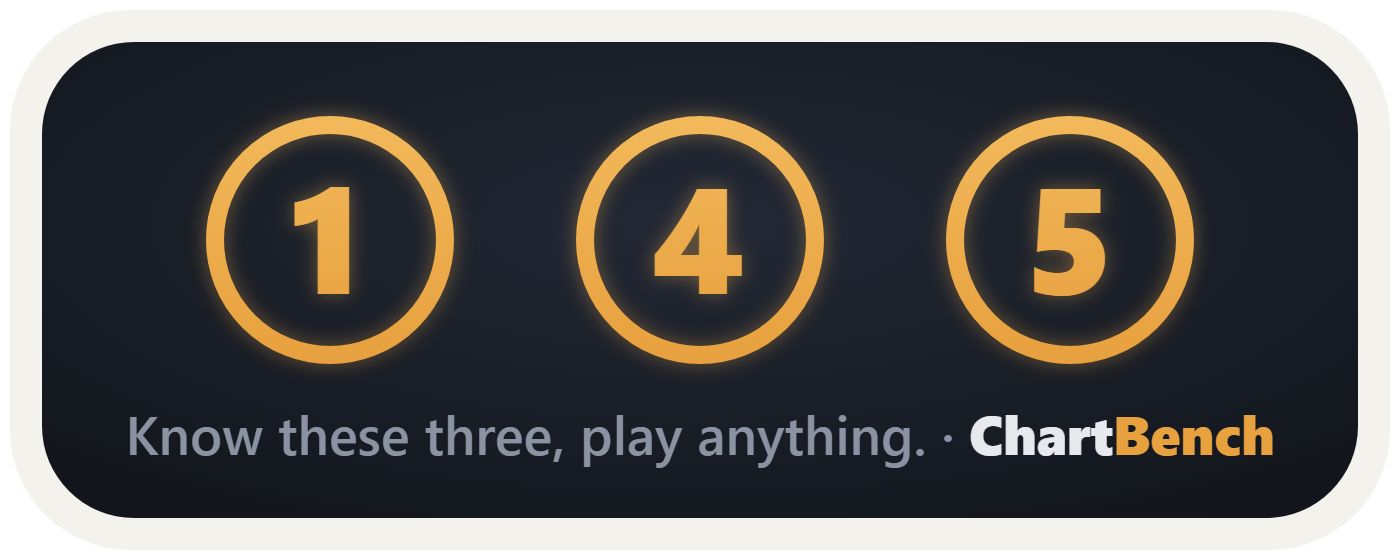
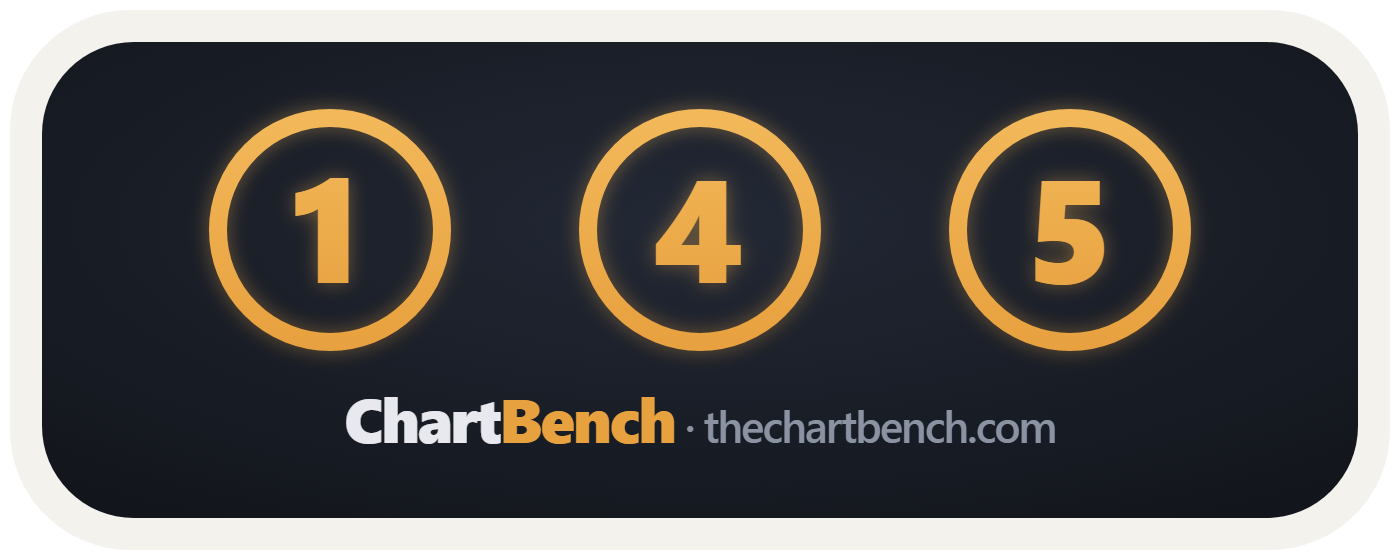
Brand: OneShot goes drums; stickers refocus on CB / ChartBench / thechartbench.com
OneShot badge is now a snare from above - amber rim with eight tension
lugs, the 1 on the head, crossed drumsticks behind, three hit accents
off the rim. Stickers now carry the CB monogram (off-white C, amber B,
scaled from cb-src.html) with the ChartBench wordmark and a
thechartbench.com fine-print line: round crest, guitar pick, app-tile
square, and the 1-4-5 strip caption swapped to wordmark + url. Slogan
bar retired; generator consolidated in _gen_v2.py.

diff --git a/docs/brand/patreon/sticker-tile-src.html b/docs/brand/patreon/sticker-tile-src.html
@@ -2,14 +2,14 @@
 <html><head><meta charset="UTF-8">
 <style>
   html, body { margin:0; padding:0; background:transparent; }
-  body { width:1000px; height:1150px; overflow:hidden; }
+  body { width:1100px; height:1100px; overflow:hidden; }
   svg { display:block; }
   .word { font-family:'Segoe UI','Segoe UI Variable',-apple-system,Roboto,Helvetica,Arial,sans-serif; font-weight:800; }
   .tier { font-family:'Segoe UI','Segoe UI Variable',-apple-system,Roboto,Helvetica,Arial,sans-serif; font-weight:800; letter-spacing:10px; }
   .num  { font-family:'Segoe UI','Segoe UI Variable',-apple-system,Roboto,Helvetica,Arial,sans-serif; font-weight:800; }
 </style></head>
 <body>
-<svg xmlns="http://www.w3.org/2000/svg" width="1000" height="1150" viewBox="0 0 1000 1150">
+<svg xmlns="http://www.w3.org/2000/svg" width="1100" height="1100" viewBox="0 0 1100 1100">
   <defs>
     <radialGradient id="bg" cx="50%" cy="38%" r="75%">
       <stop offset="0" stop-color="#222835"/>
@@ -20,21 +20,22 @@
       <stop offset="1" stop-color="#e8a13f"/>
     </linearGradient>
     <filter id="glow" x="-30%" y="-30%" width="160%" height="160%">
-      <feGaussianBlur stdDeviation="14" result="b"/>
+      <feGaussianBlur stdDeviation="16" result="b"/>
       <feColorMatrix in="b" type="matrix" values="1 0 0 0 0  0 1 0 0 0  0 0 1 0 0  0 0 0 .45 0" result="g"/>
       <feMerge><feMergeNode in="g"/><feMergeNode in="SourceGraphic"/></feMerge>
     </filter>
   </defs>
 
-  <path d="M 455,1000 C 280,860 90,650 90,390 C 90,160 270,52 500,52 C 730,52 910,160 910,390 C 910,650 720,860 545,1000 Q 500,1046 455,1000 Z" fill="#f4f2ec"/>
-  <path d="M 462,952 C 308,825 128,640 128,392 C 128,182 292,90 500,90 C 708,90 872,182 872,392 C 872,640 692,825 538,952 Q 500,990 462,952 Z" fill="url(#bg)"/>
+  <rect x="10" y="10" width="1080" height="1080" rx="240" fill="#f4f2ec"/>
+  <rect x="48" y="48" width="1004" height="1004" rx="205" fill="url(#bg)"/>
+  <rect x="51" y="51" width="998" height="998" rx="203" fill="none" stroke="#2e3440" stroke-width="6"/>
   <g filter="url(#glow)">
-    <text x="496" y="400" text-anchor="middle" dominant-baseline="central" dy="-24" class="num" style="letter-spacing:-14px" font-size="380">
+    <text x="546" y="500" text-anchor="middle" dominant-baseline="central" dy="-35" class="num" style="letter-spacing:-21px" font-size="560">
       <tspan fill="#e7e9ee">C</tspan><tspan fill="url(#amber)">B</tspan>
     </text>
   </g>
-  <text x="500" y="700" text-anchor="middle" class="word" font-size="80" letter-spacing="-3">
+  <text x="550" y="900" text-anchor="middle" class="word" font-size="72" letter-spacing="-2">
     <tspan fill="#e7e9ee">Chart</tspan><tspan fill="#e8a13f">Bench</tspan>
   </text>
-  <text x="500" y="780" text-anchor="middle" class="word" font-size="38" font-weight="600" fill="#8b93a3">thechartbench.com</text>
+  <text x="550" y="970" text-anchor="middle" class="word" font-size="36" font-weight="600" fill="#8b93a3">thechartbench.com</text>
 </svg></body></html>

diff --git a/docs/brand/patreon/oneshot-src.html b/docs/brand/patreon/oneshot-src.html
@@ -28,16 +28,20 @@
 
   <rect x="0" y="0" width="1024" height="1024" rx="190" ry="190" fill="url(#bg)"/>
   <rect x="3" y="3" width="1018" height="1018" rx="188" ry="188" fill="none" stroke="#2e3440" stroke-width="6"/>
+  <g opacity="0.95">
+    <line x1="324" y1="717" x2="700" y2="403" stroke="#d9d2c4" stroke-width="26" stroke-linecap="round"/><circle cx="700" cy="403" r="22" fill="#d9d2c4"/>
+    <line x1="700" y1="717" x2="324" y2="403" stroke="#d9d2c4" stroke-width="26" stroke-linecap="round"/><circle cx="324" cy="403" r="22" fill="#d9d2c4"/>
+  </g>
   <g filter="url(#glow)">
-    <circle cx="512" cy="430" r="230" fill="none" stroke="url(#amber)" stroke-width="30"/>
-    <g stroke="#edaa45" stroke-width="20" stroke-linecap="round">
-      <line x1="512" y1="128" x2="512" y2="180"/>
-      <line x1="512" y1="680" x2="512" y2="732"/>
-      <line x1="210" y1="430" x2="262" y2="430"/>
-      <line x1="762" y1="430" x2="814" y2="430"/>
-    </g>
-    <text x="502" y="430" text-anchor="middle" dominant-baseline="central" dy="-16.5"
-          class="num" font-size="300" fill="url(#amber)">1</text>
+    <circle cx="512" cy="400" r="205" fill="#161a22"/>
+    <circle cx="512" cy="400" r="205" fill="none" stroke="url(#amber)" stroke-width="28"/>
+    <g stroke="#edaa45" stroke-width="16" stroke-linecap="round"><line x1="512" y1="176" x2="512" y2="146"/><line x1="670" y1="242" x2="692" y2="220"/><line x1="736" y1="400" x2="766" y2="400"/><line x1="670" y1="558" x2="692" y2="580"/><line x1="512" y1="624" x2="512" y2="654"/><line x1="354" y1="558" x2="332" y2="580"/><line x1="288" y1="400" x2="258" y2="400"/><line x1="354" y1="242" x2="332" y2="220"/></g>
+    <text x="503" y="400" text-anchor="middle" dominant-baseline="central" dy="-14" class="num" font-size="260" fill="url(#amber)">1</text>
+  </g>
+  <g stroke="#f2b85a" stroke-width="14" stroke-linecap="round">
+    <line x1="712" y1="230" x2="756" y2="196"/>
+    <line x1="742" y1="292" x2="796" y2="272"/>
+    <line x1="664" y1="180" x2="690" y2="130"/>
   </g>
   <text x="512" y="812" text-anchor="middle" class="tier" font-size="86" fill="#e7e9ee">ONE SHOT</text>
   <text x="512" y="920" text-anchor="middle" class="word" font-size="56">

diff --git a/docs/brand/patreon/sticker-145-src.html b/docs/brand/patreon/sticker-145-src.html
@@ -29,14 +29,14 @@
   <rect x="10" y="10" width="1380" height="540" rx="120" fill="#f4f2ec"/>
   <rect x="42" y="42" width="1316" height="476" rx="92" fill="url(#bg)"/>
   <g filter="url(#glow)">
-    <circle cx="330" cy="240" r="115" fill="none" stroke="url(#amber)" stroke-width="18"/>
-    <text x="325" y="240" text-anchor="middle" dominant-baseline="central" dy="-8" class="num" font-size="150" fill="url(#amber)">1</text>
-    <circle cx="700" cy="240" r="115" fill="none" stroke="url(#amber)" stroke-width="18"/>
-    <text x="698" y="240" text-anchor="middle" dominant-baseline="central" dy="-8" class="num" font-size="150" fill="url(#amber)">4</text>
-    <circle cx="1070" cy="240" r="115" fill="none" stroke="url(#amber)" stroke-width="18"/>
-    <text x="1070" y="240" text-anchor="middle" dominant-baseline="central" dy="-8" class="num" font-size="150" fill="url(#amber)">5</text>
+    <circle cx="330" cy="230" r="112" fill="none" stroke="url(#amber)" stroke-width="18"/>
+    <text x="325" y="230" text-anchor="middle" dominant-baseline="central" dy="-8" class="num" font-size="146" fill="url(#amber)">1</text>
+    <circle cx="700" cy="230" r="112" fill="none" stroke="url(#amber)" stroke-width="18"/>
+    <text x="698" y="230" text-anchor="middle" dominant-baseline="central" dy="-8" class="num" font-size="146" fill="url(#amber)">4</text>
+    <circle cx="1070" cy="230" r="112" fill="none" stroke="url(#amber)" stroke-width="18"/>
+    <text x="1070" y="230" text-anchor="middle" dominant-baseline="central" dy="-8" class="num" font-size="146" fill="url(#amber)">5</text>
   </g>
-  <text x="700" y="455" text-anchor="middle" class="word" font-size="54">
-    <tspan fill="#8b93a3" font-weight="600">Know these three, play anything. · </tspan><tspan fill="#e7e9ee">Chart</tspan><tspan fill="#e8a13f">Bench</tspan>
+  <text x="700" y="443" text-anchor="middle" class="word" font-size="62" letter-spacing="-2">
+    <tspan fill="#e7e9ee">Chart</tspan><tspan fill="#e8a13f">Bench</tspan><tspan fill="#8b93a3" font-size="44" font-weight="600"> · thechartbench.com</tspan>
   </text>
 </svg></body></html>

diff --git a/docs/brand/patreon/sticker-round-src.html b/docs/brand/patreon/sticker-round-src.html
@@ -33,10 +33,13 @@
     <path id="arcBot" d="M 550,550 m -400,0 a 400,400 0 0 0 800,0" fill="none"/>
   </defs>
   <text class="tier" font-size="92" fill="#e7e9ee" letter-spacing="26"><textPath href="#arcTop" startOffset="50%" text-anchor="middle">CHARTBENCH</textPath></text>
-  <text class="word" font-size="54" fill="#8b93a3" letter-spacing="6" font-weight="600"><textPath href="#arcBot" startOffset="50%" text-anchor="middle">thechartbench.com</textPath></text>
+  <text class="word" font-size="50" fill="#8b93a3" letter-spacing="6" font-weight="600"><textPath href="#arcBot" startOffset="50%" text-anchor="middle">thechartbench.com</textPath></text>
   <g filter="url(#glow)">
-    <circle cx="550" cy="560" r="205" fill="none" stroke="url(#amber)" stroke-width="28"/>
-    <text x="541" y="560" text-anchor="middle" dominant-baseline="central" dy="-15"
-          class="num" font-size="270" fill="url(#amber)">1</text>
+    <circle cx="550" cy="560" r="230" fill="none" stroke="url(#amber)" stroke-width="22"/>
+  </g>
+  <g filter="url(#glow)">
+    <text x="546" y="568" text-anchor="middle" dominant-baseline="central" dy="-19" class="num" style="letter-spacing:-11px" font-size="300">
+      <tspan fill="#e7e9ee">C</tspan><tspan fill="url(#amber)">B</tspan>
+    </text>
   </g>
 </svg></body></html>

diff --git a/docs/brand/patreon/_gen_v2.py b/docs/brand/patreon/_gen_v2.py
@@ -1,0 +1,135 @@
+import math
+HEAD = '''<!DOCTYPE html>
+<html><head><meta charset="UTF-8">
+<style>
+  html, body { margin:0; padding:0; background:transparent; }
+  body { width:%dpx; height:%dpx; overflow:hidden; }
+  svg { display:block; }
+  .word { font-family:'Segoe UI','Segoe UI Variable',-apple-system,Roboto,Helvetica,Arial,sans-serif; font-weight:800; }
+  .tier { font-family:'Segoe UI','Segoe UI Variable',-apple-system,Roboto,Helvetica,Arial,sans-serif; font-weight:800; letter-spacing:10px; }
+  .num  { font-family:'Segoe UI','Segoe UI Variable',-apple-system,Roboto,Helvetica,Arial,sans-serif; font-weight:800; }
+</style></head>
+<body>
+'''
+DEFS = '''  <defs>
+    <radialGradient id="bg" cx="50%%" cy="38%%" r="75%%">
+      <stop offset="0" stop-color="#222835"/>
+      <stop offset="1" stop-color="#12151b"/>
+    </radialGradient>
+    <linearGradient id="amber" x1="0" y1="0" x2="0" y2="1">
+      <stop offset="0" stop-color="#f2b85a"/>
+      <stop offset="1" stop-color="#e8a13f"/>
+    </linearGradient>
+    <filter id="glow" x="-30%%" y="-30%%" width="160%%" height="160%%">
+      <feGaussianBlur stdDeviation="%s" result="b"/>
+      <feColorMatrix in="b" type="matrix" values="1 0 0 0 0  0 1 0 0 0  0 0 1 0 0  0 0 0 %s 0" result="g"/>
+      <feMerge><feMergeNode in="g"/><feMergeNode in="SourceGraphic"/></feMerge>
+    </filter>
+  </defs>
+'''
+def write(name, w, h, body, glow=('14','.45')):
+    html = HEAD % (w,h) + f'<svg xmlns="http://www.w3.org/2000/svg" width="{w}" height="{h}" viewBox="0 0 {w} {h}">\n' + (DEFS % glow) + body + '</svg></body></html>'
+    open(name, 'w', encoding='utf-8').write(html)
+
+def cb(x, y, size):
+    ls = -22/600*size; dy = -38/600*size
+    return (f'<g filter="url(#glow)">\n'
+            f'    <text x="{x}" y="{y}" text-anchor="middle" dominant-baseline="central" dy="{dy:.0f}" class="num" style="letter-spacing:{ls:.0f}px" font-size="{size}">\n'
+            f'      <tspan fill="#e7e9ee">C</tspan><tspan fill="url(#amber)">B</tspan>\n'
+            f'    </text>\n  </g>')
+
+def lugs(cx, cy, r0, r1, n=8, w=16):
+    out=[]
+    for i in range(n):
+        a = math.pi*2*i/n - math.pi/2
+        out.append(f'<line x1="{cx+r0*math.cos(a):.0f}" y1="{cy+r0*math.sin(a):.0f}" x2="{cx+r1*math.cos(a):.0f}" y2="{cy+r1*math.sin(a):.0f}"/>')
+    return f'<g stroke="#edaa45" stroke-width="{w}" stroke-linecap="round">' + ''.join(out) + '</g>'
+
+def stick(cx, cy, angle_deg, length, w=24, color="#d9d2c4"):
+    a = math.radians(angle_deg)
+    x0,y0 = cx - length*.5*math.cos(a), cy - length*.5*math.sin(a)
+    x1,y1 = cx + length*.5*math.cos(a), cy + length*.5*math.sin(a)
+    return (f'<line x1="{x0:.0f}" y1="{y0:.0f}" x2="{x1:.0f}" y2="{y1:.0f}" stroke="{color}" stroke-width="{w}" stroke-linecap="round"/>'
+            f'<circle cx="{x1:.0f}" cy="{y1:.0f}" r="{w*0.85:.0f}" fill="{color}"/>')
+
+oneshot_body = f'''
+  <rect x="0" y="0" width="1024" height="1024" rx="190" ry="190" fill="url(#bg)"/>
+  <rect x="3" y="3" width="1018" height="1018" rx="188" ry="188" fill="none" stroke="#2e3440" stroke-width="6"/>
+  <g opacity="0.95">
+    {stick(512, 560, -40, 490, 26)}
+    {stick(512, 560, 220, 490, 26)}
+  </g>
+  <g filter="url(#glow)">
+    <circle cx="512" cy="400" r="205" fill="#161a22"/>
+    <circle cx="512" cy="400" r="205" fill="none" stroke="url(#amber)" stroke-width="28"/>
+    {lugs(512, 400, 224, 254)}
+    <text x="503" y="400" text-anchor="middle" dominant-baseline="central" dy="-14" class="num" font-size="260" fill="url(#amber)">1</text>
+  </g>
+  <g stroke="#f2b85a" stroke-width="14" stroke-linecap="round">
+    <line x1="712" y1="230" x2="756" y2="196"/>
+    <line x1="742" y1="292" x2="796" y2="272"/>
+    <line x1="664" y1="180" x2="690" y2="130"/>
+  </g>
+  <text x="512" y="812" text-anchor="middle" class="tier" font-size="86" fill="#e7e9ee">ONE SHOT</text>
+  <text x="512" y="920" text-anchor="middle" class="word" font-size="56">
+    <tspan fill="#8b93a3" style="font-weight:600;">One-Time Supporter · </tspan><tspan fill="#e7e9ee">Chart</tspan><tspan fill="#e8a13f">Bench</tspan>
+  </text>
+'''
+write('oneshot-src.html', 1024, 1024, oneshot_body, ('18','.5'))
+
+round_body = f'''
+  <circle cx="550" cy="550" r="530" fill="#f4f2ec"/>
+  <circle cx="550" cy="550" r="490" fill="url(#bg)"/>
+  <defs>
+    <path id="arcTop" d="M 550,550 m -400,0 a 400,400 0 0 1 800,0" fill="none"/>
+    <path id="arcBot" d="M 550,550 m -400,0 a 400,400 0 0 0 800,0" fill="none"/>
+  </defs>
+  <text class="tier" font-size="92" fill="#e7e9ee" letter-spacing="26"><textPath href="#arcTop" startOffset="50%" text-anchor="middle">CHARTBENCH</textPath></text>
+  <text class="word" font-size="50" fill="#8b93a3" letter-spacing="6" font-weight="600"><textPath href="#arcBot" startOffset="50%" text-anchor="middle">thechartbench.com</textPath></text>
+  <g filter="url(#glow)">
+    <circle cx="550" cy="560" r="230" fill="none" stroke="url(#amber)" stroke-width="22"/>
+  </g>
+  {cb(546, 568, 300)}
+'''
+write('sticker-round-src.html', 1100, 1100, round_body, ('16','.45'))
+
+pick_body = f'''
+  <path d="M 455,1000 C 280,860 90,650 90,390 C 90,160 270,52 500,52 C 730,52 910,160 910,390 C 910,650 720,860 545,1000 Q 500,1046 455,1000 Z" fill="#f4f2ec"/>
+  <path d="M 462,952 C 308,825 128,640 128,392 C 128,182 292,90 500,90 C 708,90 872,182 872,392 C 872,640 692,825 538,952 Q 500,990 462,952 Z" fill="url(#bg)"/>
+  {cb(496, 400, 380)}
+  <text x="500" y="700" text-anchor="middle" class="word" font-size="80" letter-spacing="-3">
+    <tspan fill="#e7e9ee">Chart</tspan><tspan fill="#e8a13f">Bench</tspan>
+  </text>
+  <text x="500" y="780" text-anchor="middle" class="word" font-size="38" font-weight="600" fill="#8b93a3">thechartbench.com</text>
+'''
+write('sticker-pick-src.html', 1000, 1150, pick_body)
+
+tile_body = f'''
+  <rect x="10" y="10" width="1080" height="1080" rx="240" fill="#f4f2ec"/>
+  <rect x="48" y="48" width="1004" height="1004" rx="205" fill="url(#bg)"/>
+  <rect x="51" y="51" width="998" height="998" rx="203" fill="none" stroke="#2e3440" stroke-width="6"/>
+  {cb(546, 500, 560)}
+  <text x="550" y="900" text-anchor="middle" class="word" font-size="72" letter-spacing="-2">
+    <tspan fill="#e7e9ee">Chart</tspan><tspan fill="#e8a13f">Bench</tspan>
+  </text>
+  <text x="550" y="970" text-anchor="middle" class="word" font-size="36" font-weight="600" fill="#8b93a3">thechartbench.com</text>
+'''
+write('sticker-tile-src.html', 1100, 1100, tile_body, ('16','.45'))
+
+strip_body = '''
+  <rect x="10" y="10" width="1380" height="540" rx="120" fill="#f4f2ec"/>
+  <rect x="42" y="42" width="1316" height="476" rx="92" fill="url(#bg)"/>
+  <g filter="url(#glow)">
+    <circle cx="330" cy="230" r="112" fill="none" stroke="url(#amber)" stroke-width="18"/>
+    <text x="325" y="230" text-anchor="middle" dominant-baseline="central" dy="-8" class="num" font-size="146" fill="url(#amber)">1</text>
+    <circle cx="700" cy="230" r="112" fill="none" stroke="url(#amber)" stroke-width="18"/>
+    <text x="698" y="230" text-anchor="middle" dominant-baseline="central" dy="-8" class="num" font-size="146" fill="url(#amber)">4</text>
+    <circle cx="1070" cy="230" r="112" fill="none" stroke="url(#amber)" stroke-width="18"/>
+    <text x="1070" y="230" text-anchor="middle" dominant-baseline="central" dy="-8" class="num" font-size="146" fill="url(#amber)">5</text>
+  </g>
+  <text x="700" y="443" text-anchor="middle" class="word" font-size="62" letter-spacing="-2">
+    <tspan fill="#e7e9ee">Chart</tspan><tspan fill="#e8a13f">Bench</tspan><tspan fill="#8b93a3" font-size="44" font-weight="600"> · thechartbench.com</tspan>
+  </text>
+'''
+write('sticker-145-src.html', 1400, 560, strip_body, ('10','.4'))
+print('written v2')
